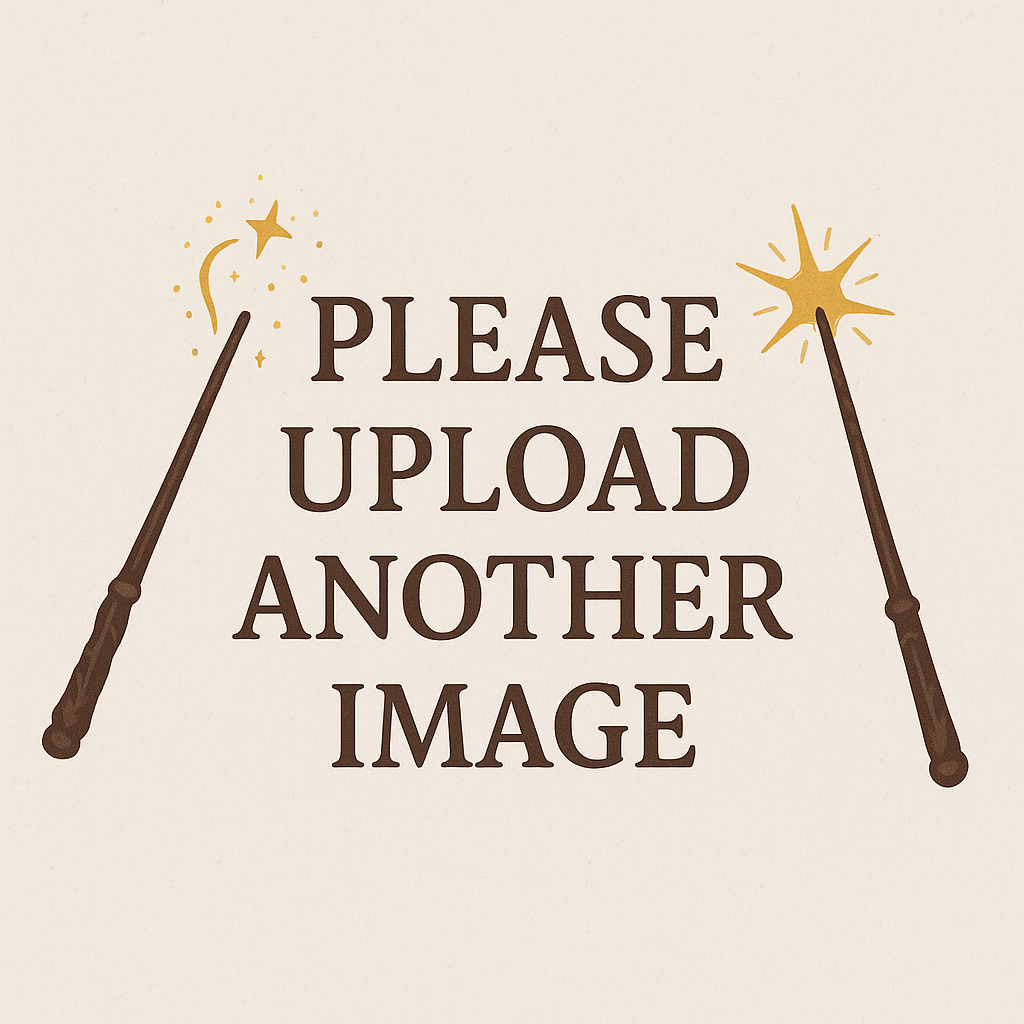
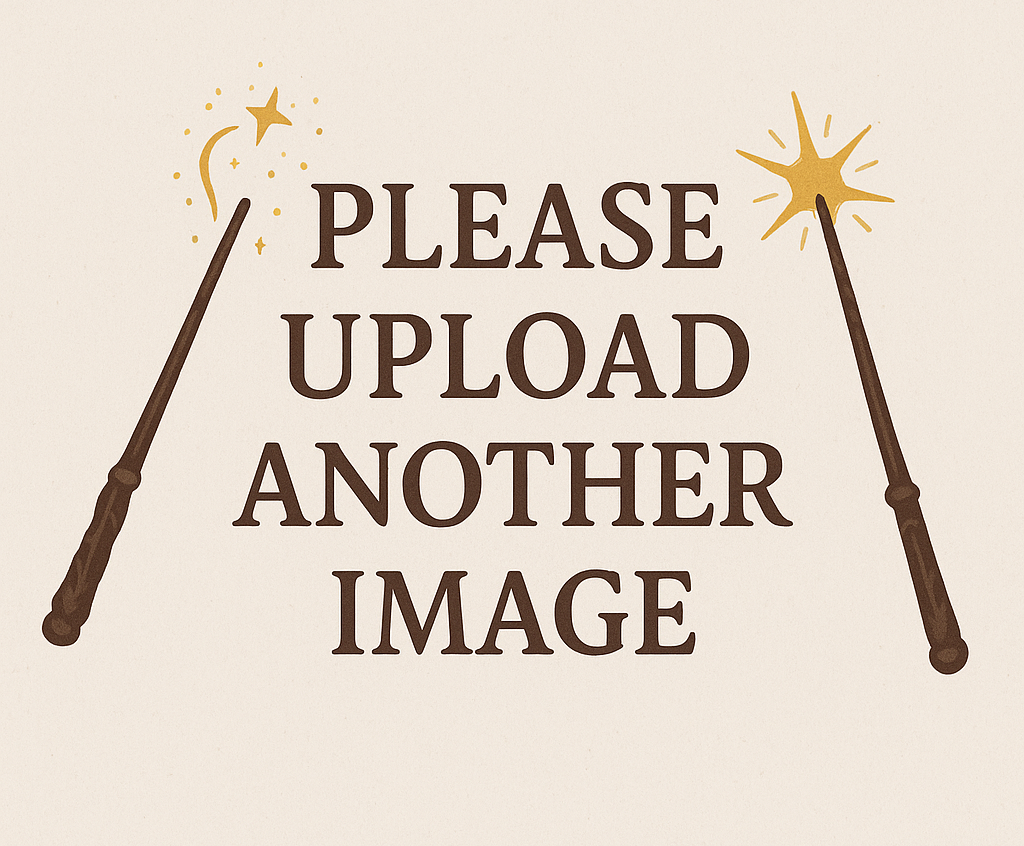
Agregada imagen de fallback por si falla el servidor de imágenes en wand-catalog

Changed region(s): [[0.0938, 0.0922, 0.9688, 0.7991], [0.0312, 0.6454, 0.125, 0.7683]]

diff --git a/src/app/components/product/place-order/place-order.component.ts b/src/app/components/product/place-order/place-order.component.ts
@@ -11,6 +11,7 @@ import { RouterModule, ActivatedRoute, Router } from '@angular/router';
 import { alertMethod } from '../../../functions/alert.function';
 import { AlertType } from '../../../shared/components/alert/alert.component';
 import { ModalComponent } from '../../../shared/components/modal/modal.component.js';
+import { fallbackOnImgError } from '../../../functions/fallback-on-img-error.function.js';
 
 @Component({
   selector: 'app-place-order',
@@ -31,6 +32,8 @@ export class PlaceOrderComponent implements OnInit {
   wizard: Wizard | null = null;
   wand: Wand | null = null;
   wandId: string = '';
+
+  onImgError = fallbackOnImgError;
 
   constructor(
     private fb: FormBuilder,

diff --git a/src/app/components/product/wand-catalog/wand-catalog.component.ts b/src/app/components/product/wand-catalog/wand-catalog.component.ts
@@ -9,6 +9,7 @@ import { HostListener } from '@angular/core';
 import { CommonModule } from '@angular/common';
 import { WandDetailsButtonComponent } from '../../../shared/components/wand-details-button/wand-details-button.component.js';
 import { InfiniteScrollComponent } from '../../../shared/components/infinite-scroll/infinite-scroll.component';
+import { fallbackOnImgError } from '../../../functions/fallback-on-img-error.function.js';
 
 @Component({
   selector: 'app-wand-catalog',
@@ -33,6 +34,8 @@ export class WandCatalogComponent implements AfterViewChecked {
   pageSize = 12;
   loading = false;
   allLoaded = false;
+
+  onImgError = fallbackOnImgError;
 
 
   constructor(

diff --git a/src/app/components/product/wand-catalog/wand-catalog.component.html b/src/app/components/product/wand-catalog/wand-catalog.component.html
@@ -29,9 +29,10 @@
                 ></app-wand-details-button>
                 <img
                   id="wand-image"
-                  class="card-img-top img-fluid"
+                  class="card-img-top img-fluid rounded"
                   [src]="wand.image"
                   alt="wand-image"
+                  (error)="onImgError($event)"
                 />
               </div>
               <div class="card-body d-flex flex-column">

diff --git a/src/app/components/product/place-order/place-order.component.html b/src/app/components/product/place-order/place-order.component.html
@@ -10,6 +10,7 @@
             [src]="wand.image"
             alt="wand-image"
             class="img-fluid rounded order-image"
+            (error)="onImgError($event)"
           />
         </div>
         <div class="col-sm-8 col-md-7 d-flex align-items-center justify-content-center flex-column order-details">
